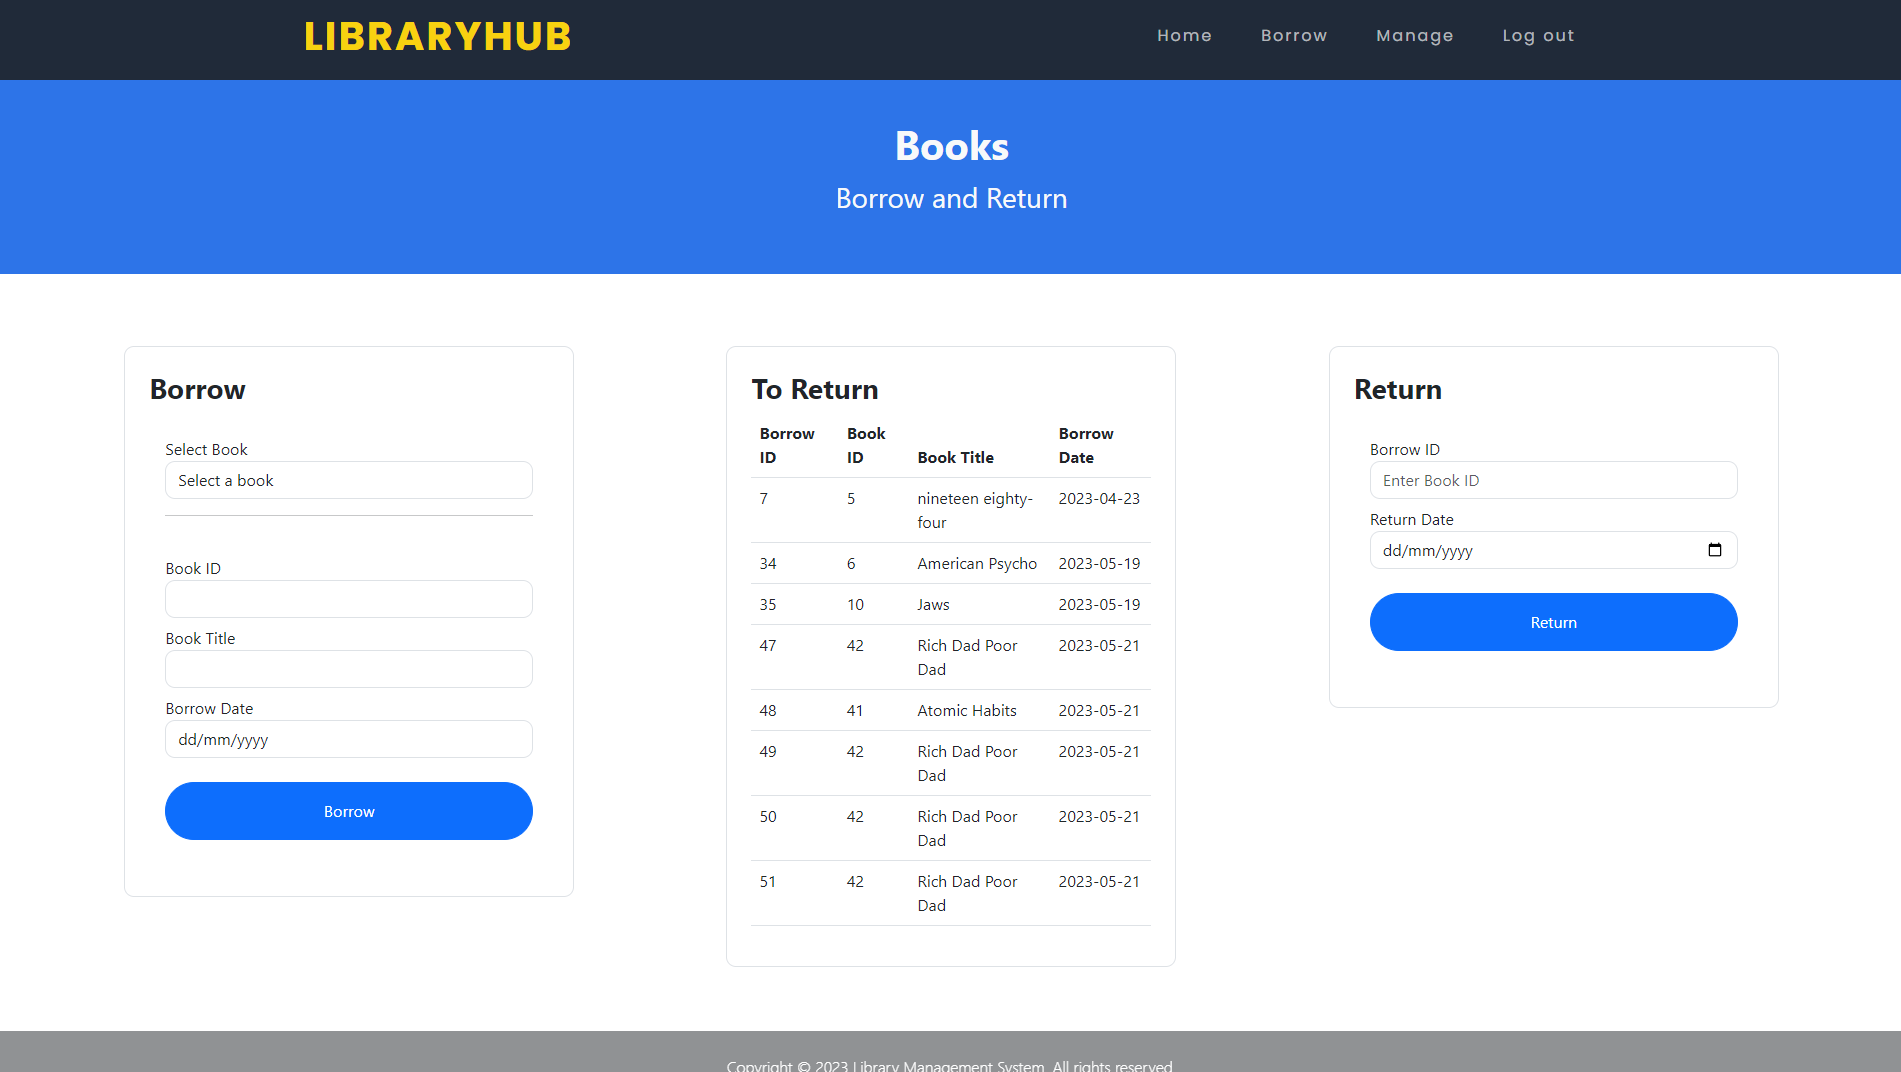
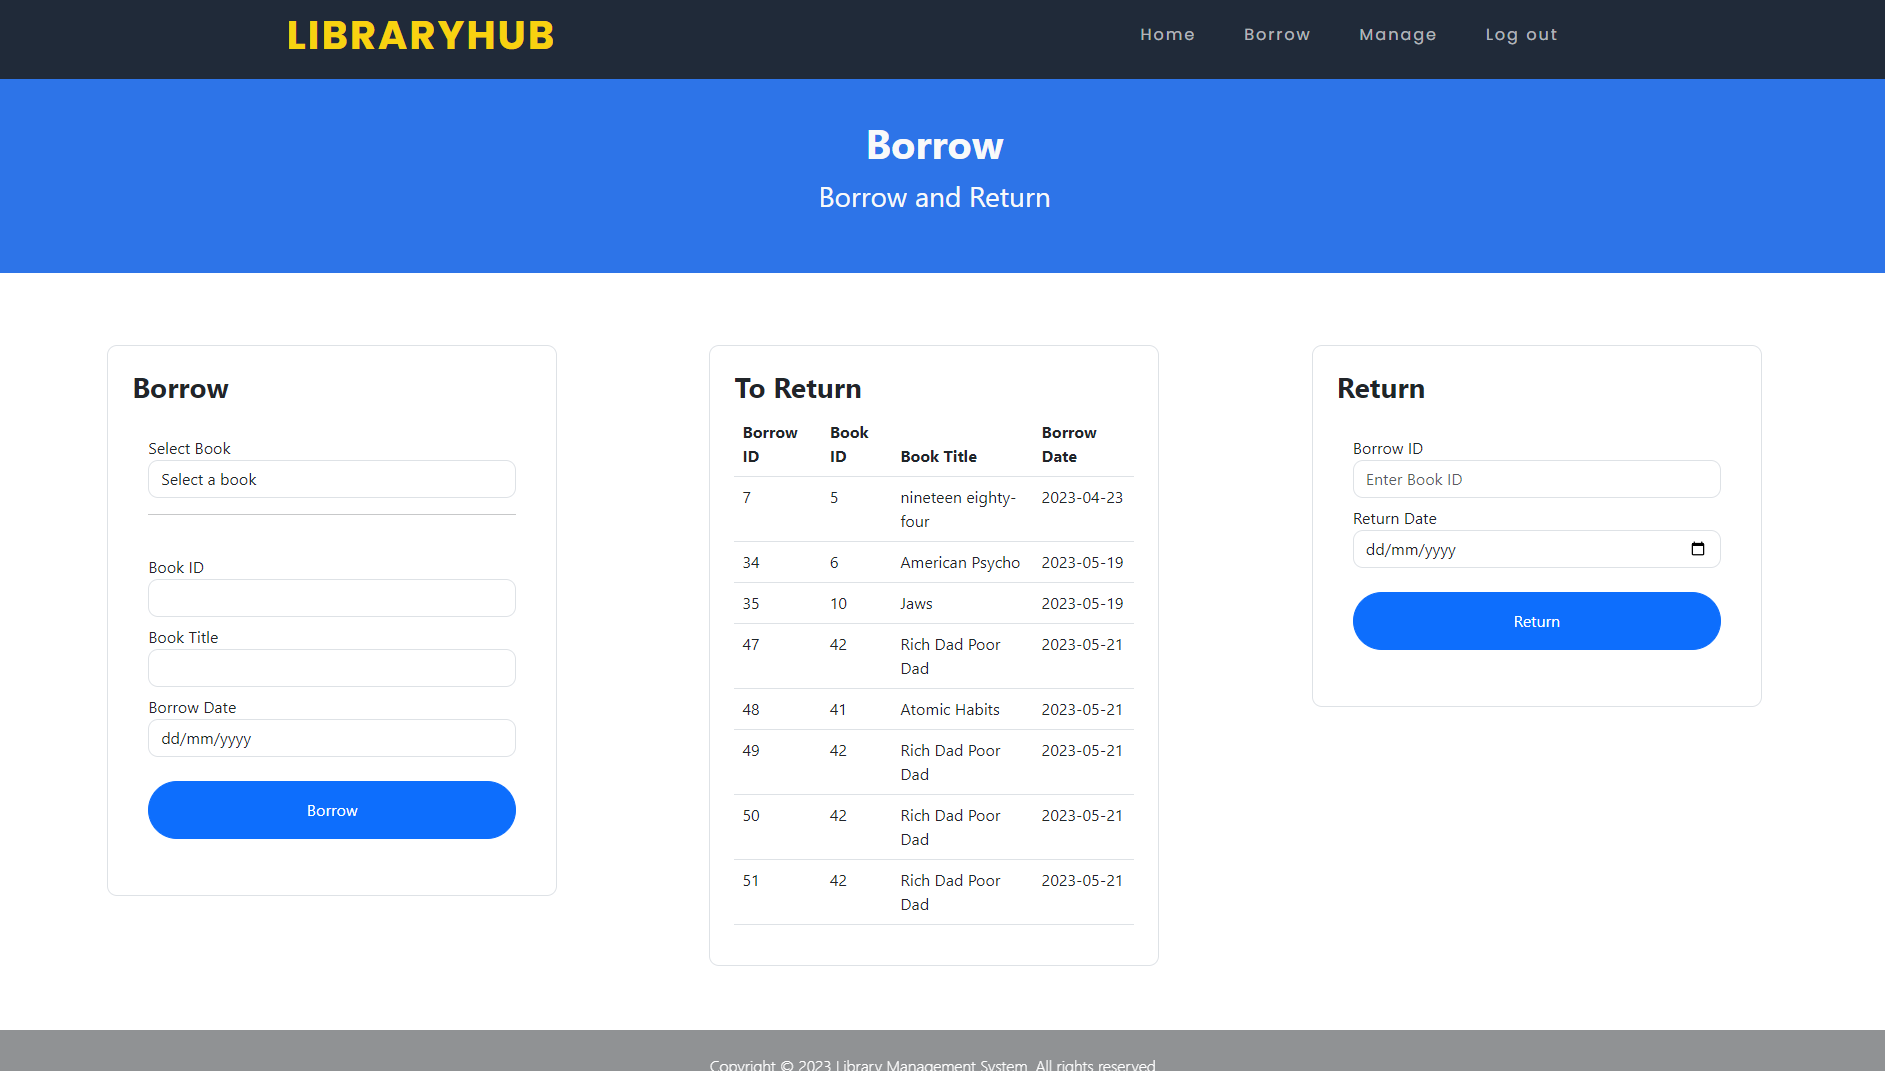
Updated Readme

diff --git a/book.php b/book.php
@@ -124,7 +124,7 @@ if ($_SERVER['REQUEST_METHOD'] == 'POST' && isset($_POST['deleteButton'])) {
     <!-- Showcase -->
     <section class="text-light p-4 text-center d-flex justify-content-center borrow mb-5">
         <div class="container my-3">
-            <h1 class="fw-bold">Books</h1>
+            <h1 class="fw-bold">Manage</h1>
             <p class="fs-3">Add or remove books</p>
         </div>
     </section>

diff --git a/borrow.php b/borrow.php
@@ -68,7 +68,7 @@ if ($_SERVER['REQUEST_METHOD'] == 'POST' && isset($_POST['returnButton'])) {
     <!-- Showcase -->
     <section class="text-light p-4 text-center d-flex justify-content-center borrow mb-5">
         <div class="container my-3">
-            <h1 class="fw-bold">Books</h1>
+            <h1 class="fw-bold">Borrow</h1>
             <p class="fs-3">Borrow and Return</p>
         </div>
     </section>
